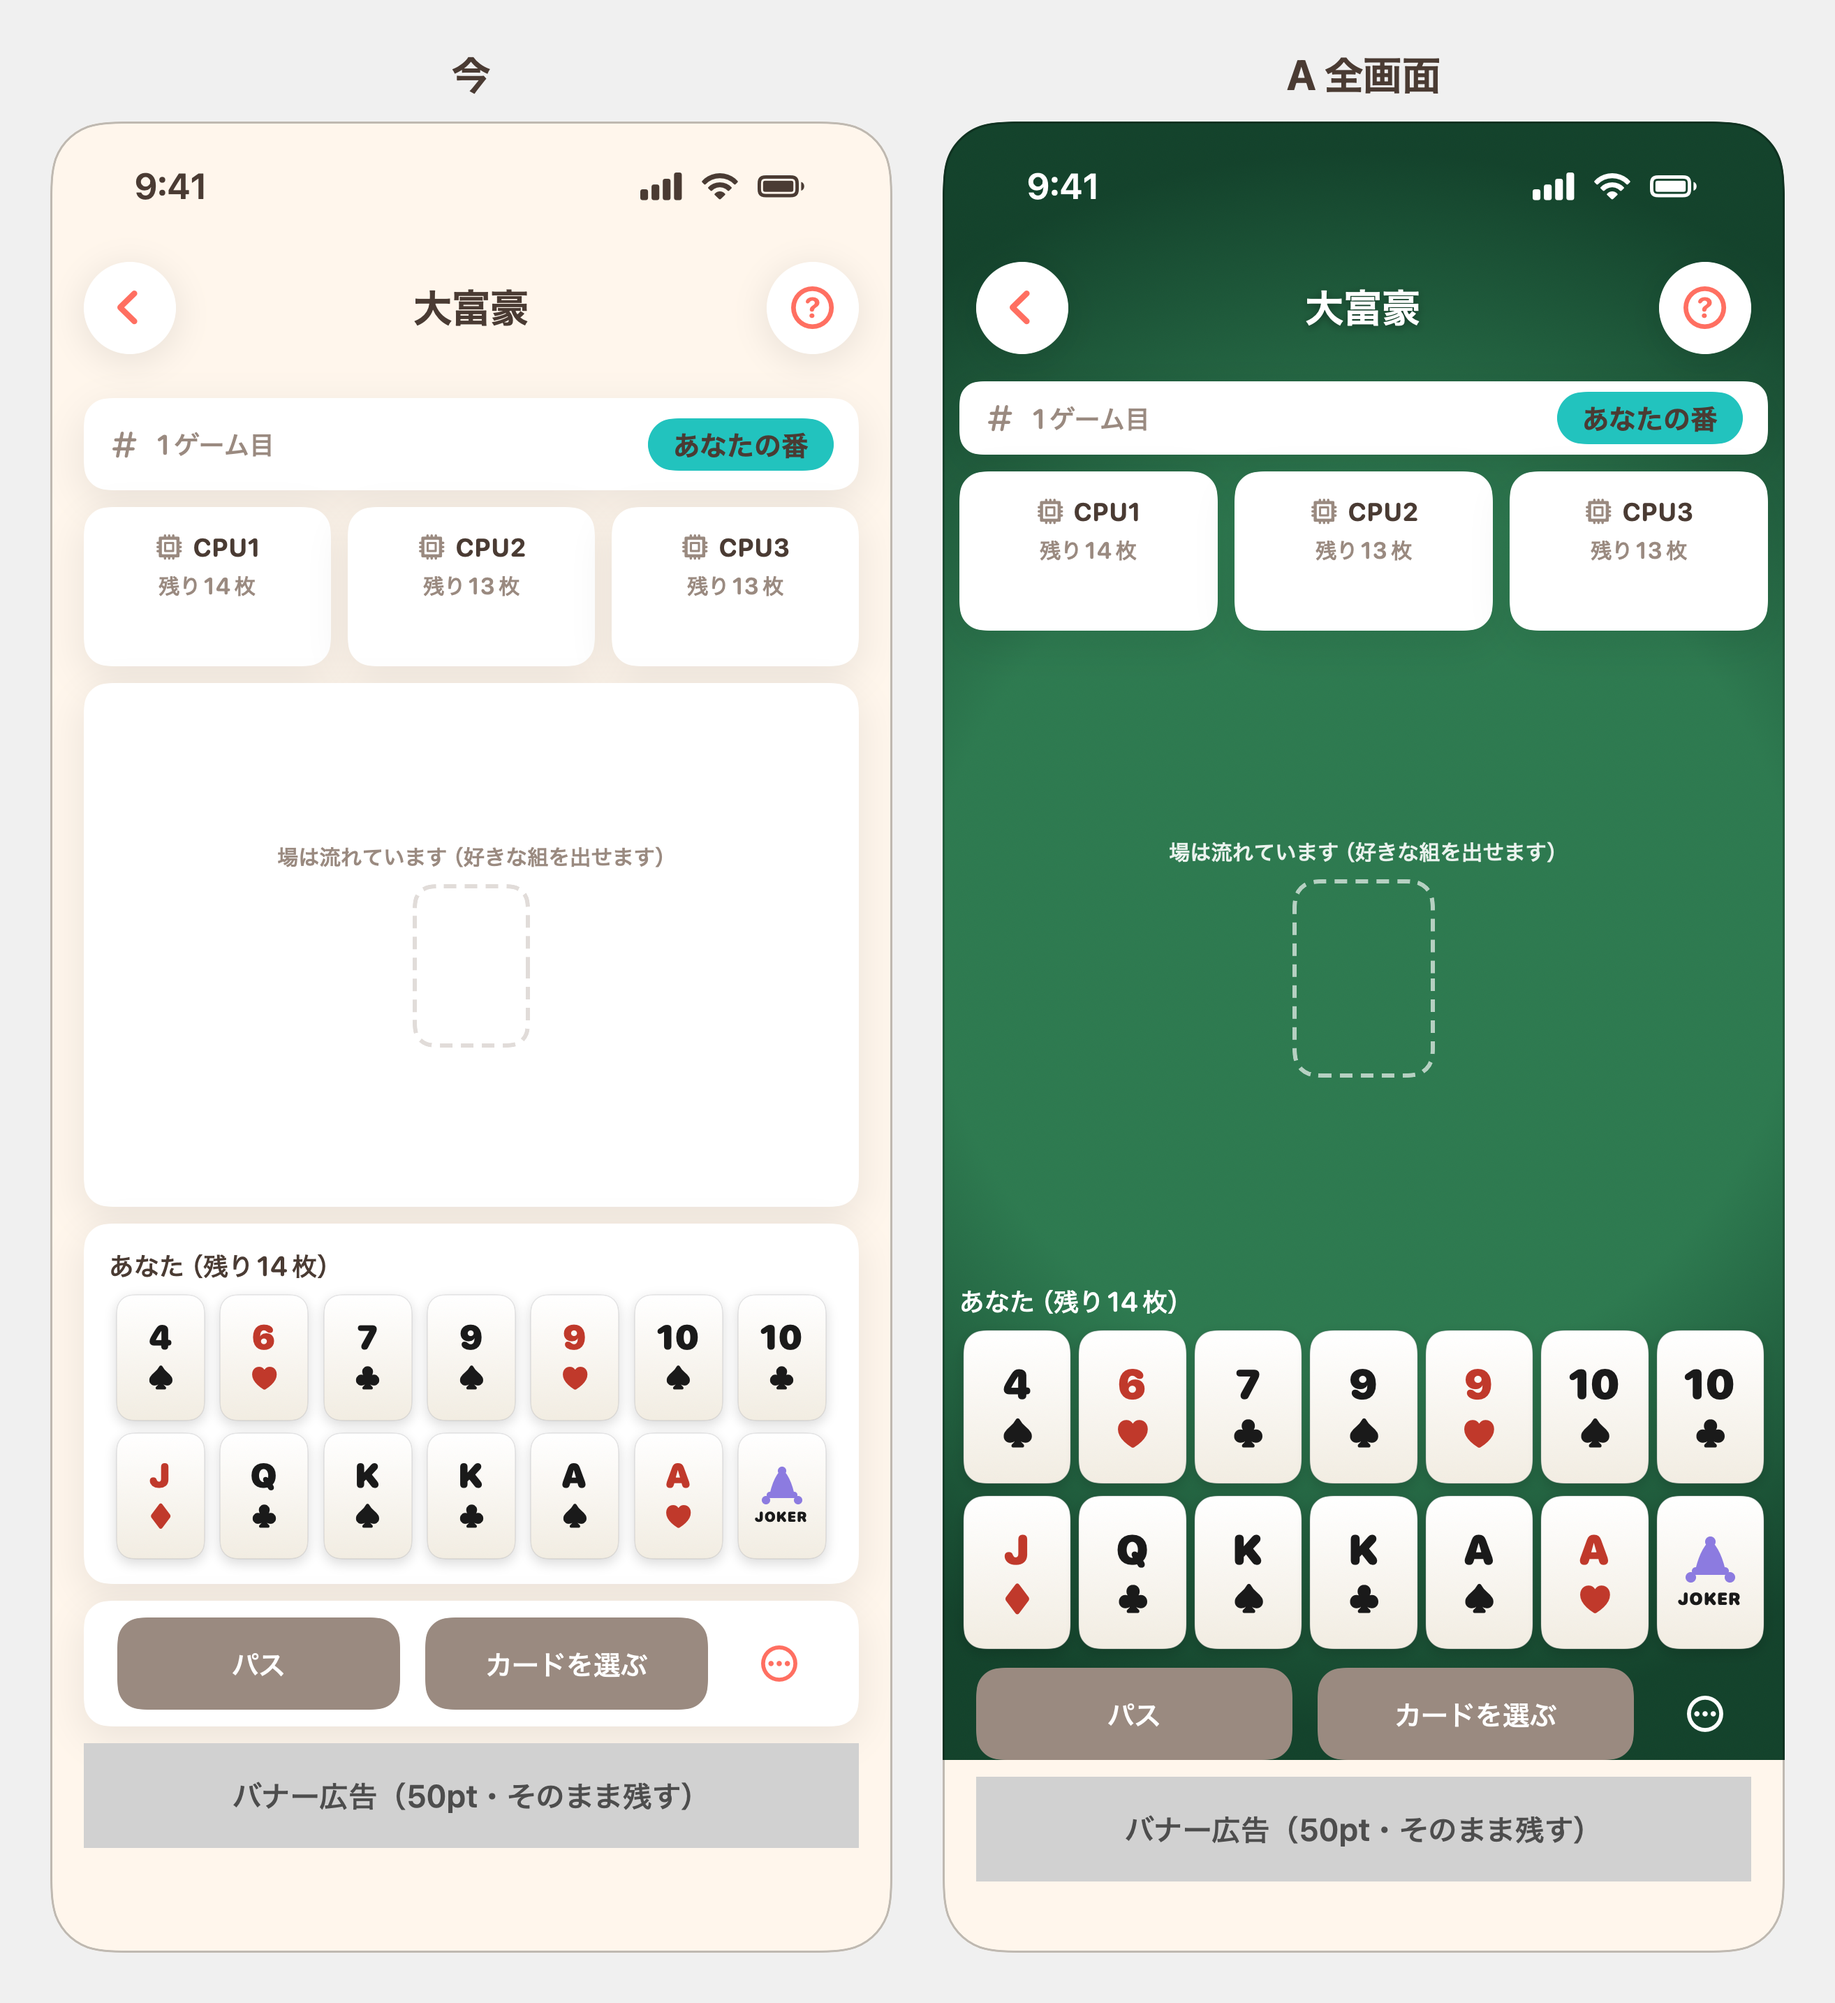
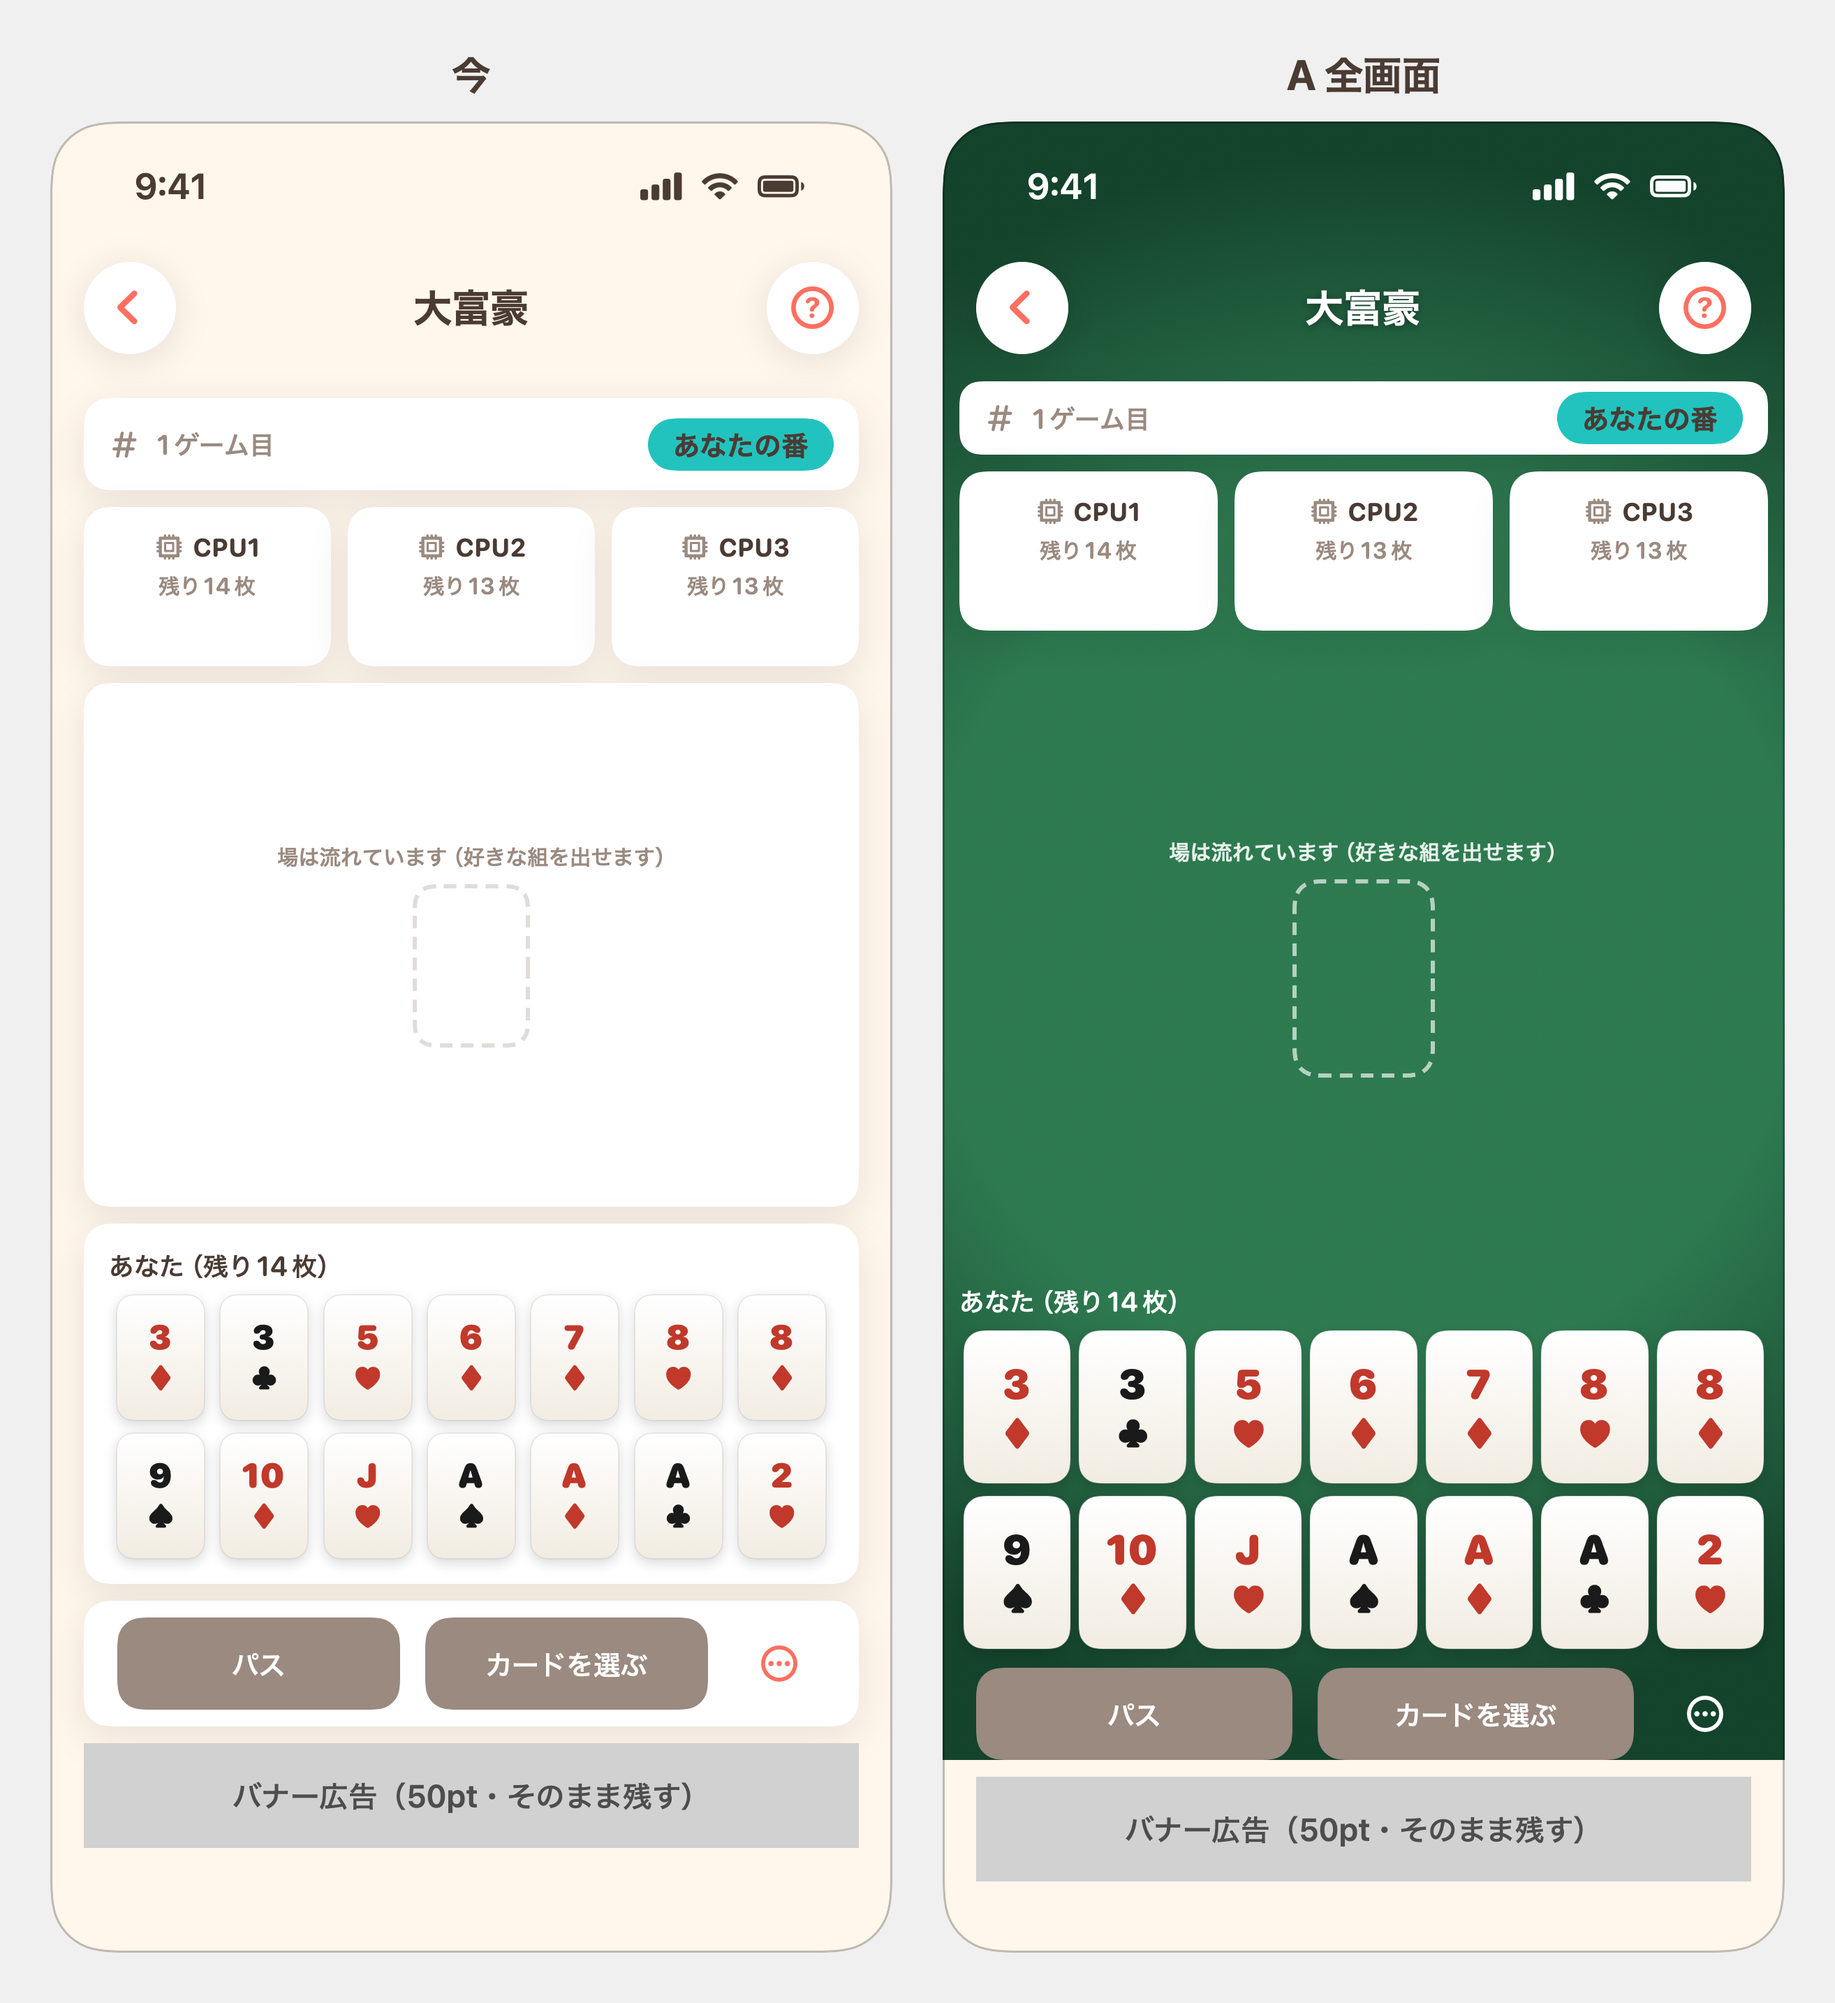
docs(design): 敵対的検証の指摘を反映（A の使える高さの分母はバナーの帯を除く・配った直後は ♦3 を持つ人間が親・沈む札に 2 を追加・SE の列内の隙間）(#2431)

diff --git a/docs/design/layout-patterns-2111/daifugo/mock_generator.swift b/docs/design/layout-patterns-2111/daifugo/mock_generator.swift
@@ -590,7 +590,7 @@ private struct SideBySide<Left: View, Right: View>: View {
 private enum Situation: String, CaseIterable {
     /// 2 ゲーム目の途中: 場に CPU2 の 9 のペア、手札 8 枚、J のペアを選んで「2枚出す」が押せる。
     case mid
-    /// 配った直後: 手札 14 枚（7 列 × 2 段）、場は流れている。
+    /// 配った直後: 手札 14 枚（7 列 × 2 段）、場は流れている。人間が ♦3 を持っていて親（1 ゲーム目の最初の手番）。
     case deal
 }
 
@@ -629,10 +629,19 @@ struct LayoutMock2431Tests {
                 lastActions: ["5", "6", "9 9", "パス"])
             selected = [card(.spades, 11), card(.hearts, 11)]
         case .deal:
-            var rng = SeededGenerator(seed: 2431)
-            let deck = DaifugoCard.makeDeck().shuffled(using: &rng)
-            var hands = Array(repeating: [DaifugoCard](), count: DaifugoModel.playerCount)
-            for (i, c) in deck.enumerated() { hands[i % DaifugoModel.playerCount].append(c) }
+            // 1 ゲーム目の親は ♦3 の持ち主（`DaifugoModel.openingPlayer()`）。人間が親になる配りを、
+            // 2431 から順に試して最初に見つかった種で固定する（人間は最初に配られるので常に 14 枚）。
+            var hands: [[DaifugoCard]] = []
+            var seed: UInt64 = 2431
+            while true {
+                var rng = SeededGenerator(seed: seed)
+                let deck = DaifugoCard.makeDeck().shuffled(using: &rng)
+                hands = Array(repeating: [DaifugoCard](), count: DaifugoModel.playerCount)
+                for (i, c) in deck.enumerated() { hands[i % DaifugoModel.playerCount].append(c) }
+                if hands[DaifugoModel.humanIndex].contains(card(.diamonds, 3)) { break }
+                seed += 1
+            }
+            print("deal seed: \(seed)")
             snapshot = DaifugoSnapshot(
                 hands: hands.map { $0.sorted { $0.sortKey < $1.sortKey } },
                 field: [], fieldOwner: nil,
